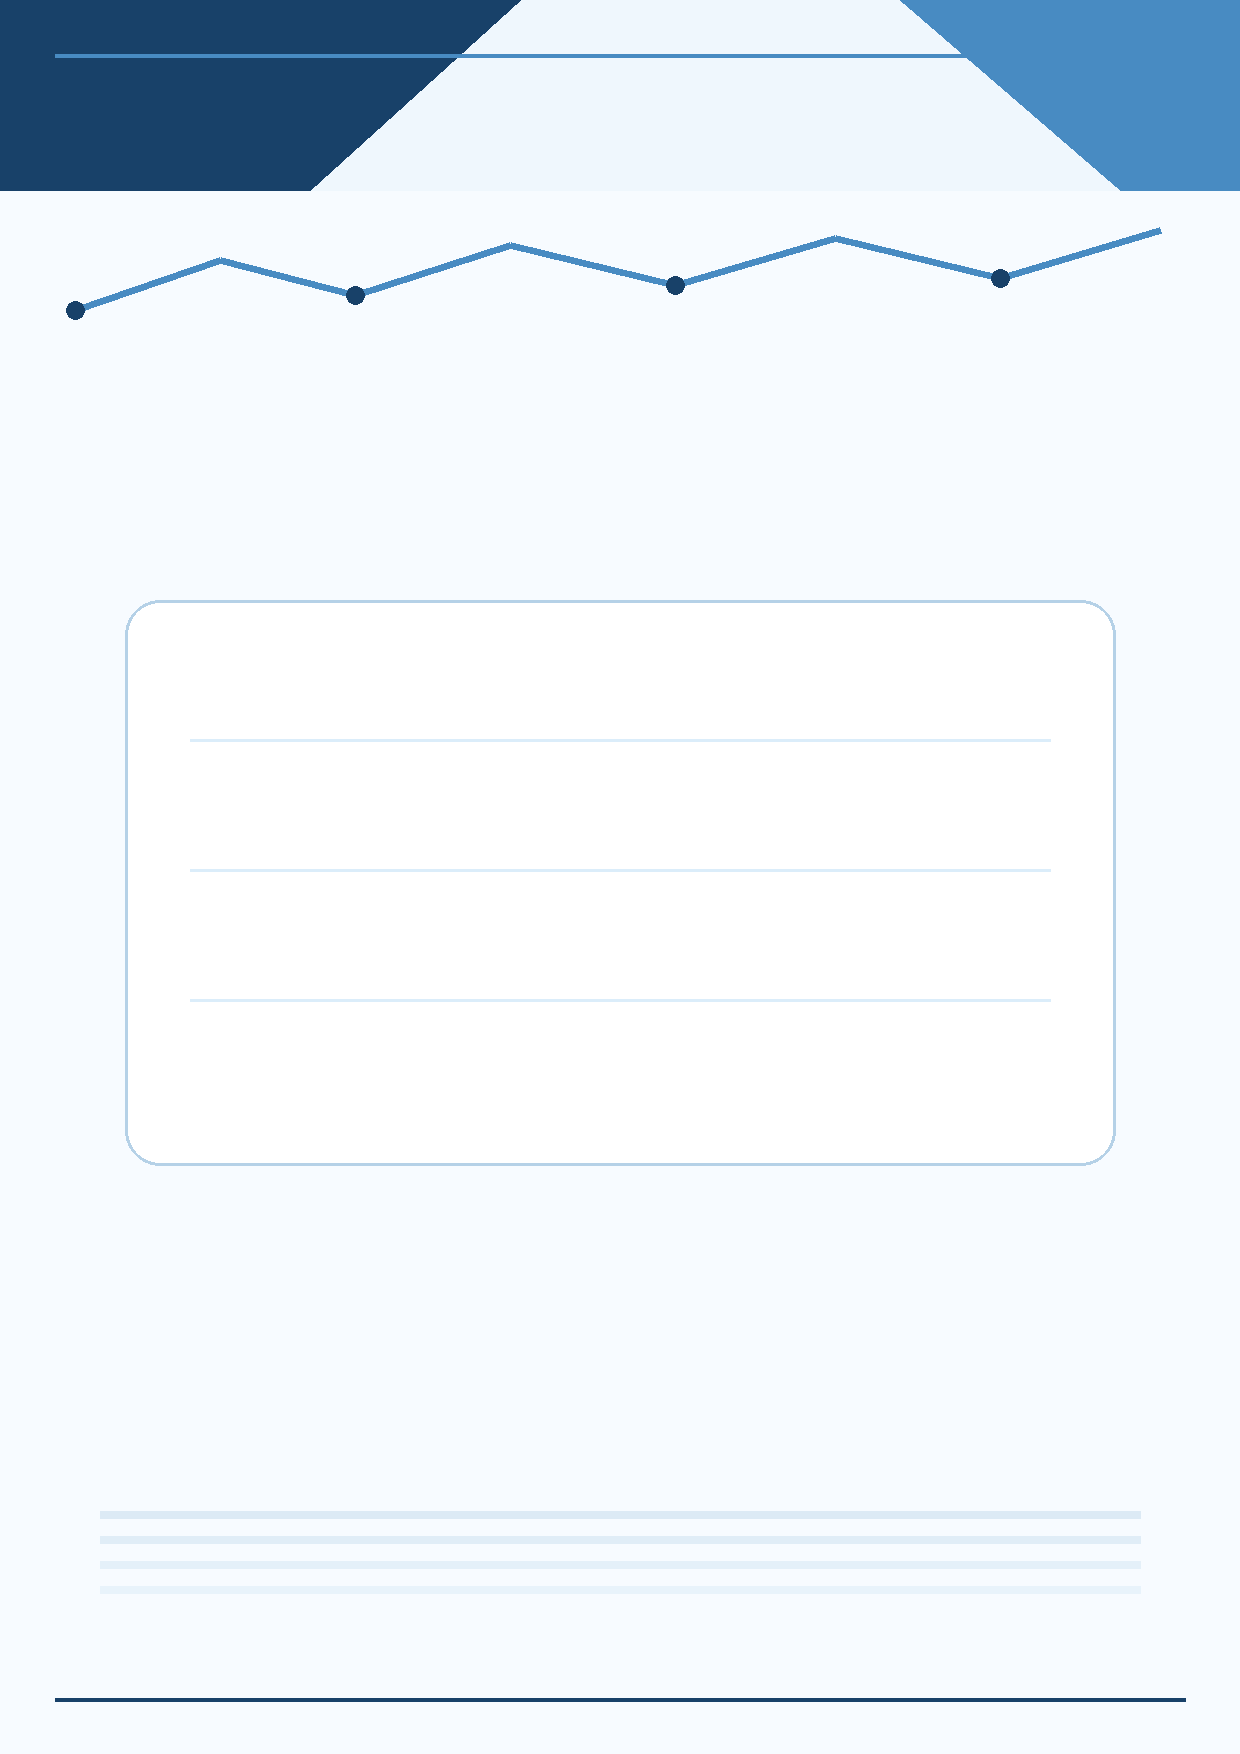
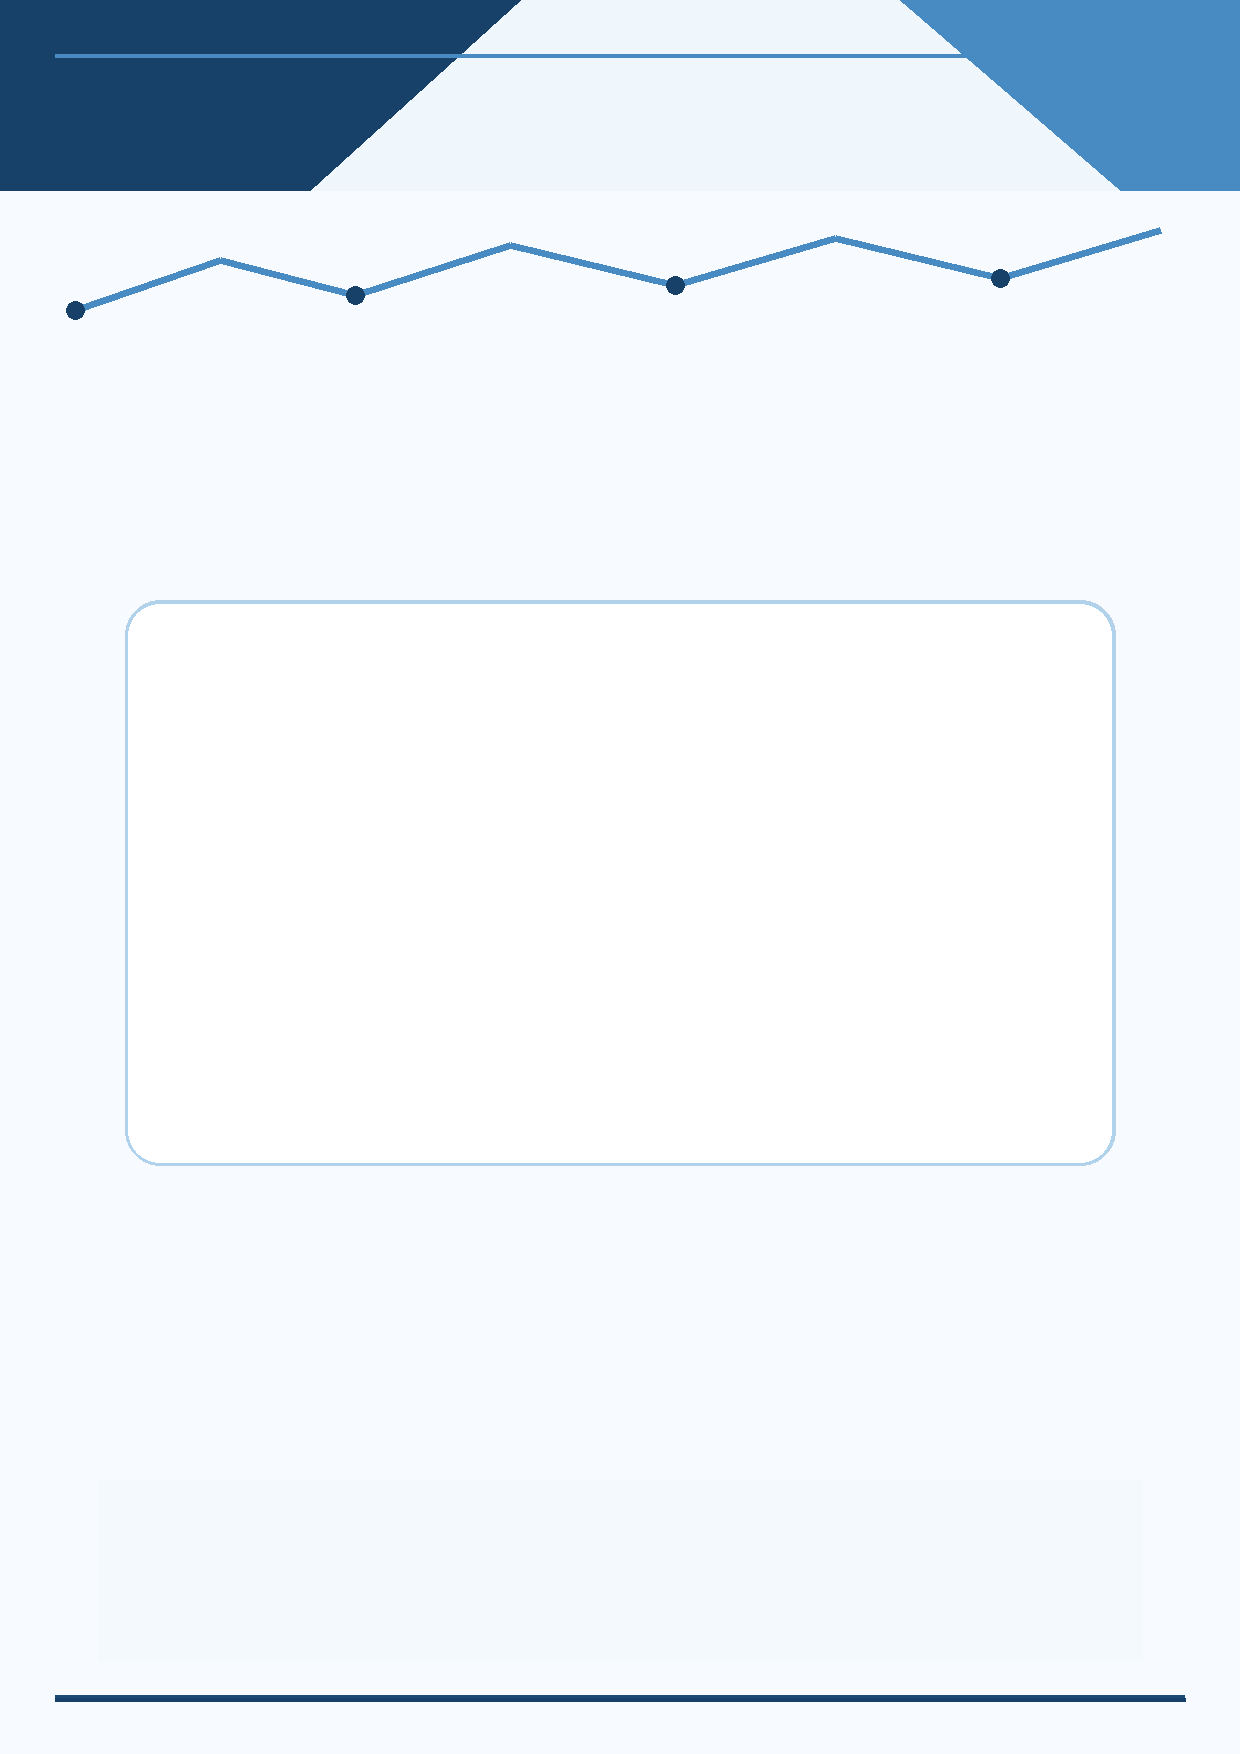
Add files via upload

diff --git a/app.js b/app.js
@@ -8,7 +8,7 @@ const LOCK_STALE_MS = 90000;
 const HEARTBEAT_MS = 20000;
 const DEFAULT_NOTICE = '開会式は、体育館で10時からとなっています。参加者は、5分前にはお集まりください。';
 const DEFAULT_CODES = { admin:'1234', A:'1111', B:'2222', C:'3333' };
-const APP_VERSION='1.0.7';
+const APP_VERSION='1.0.8';
 const TEAM_COLORS={
   1:'#FA927E',2:'#78C7FC',3:'#F8CC76',4:'#9EE6B4',5:'#C1A6F9',
   6:'#F6AAD2',7:'#88E2DB',8:'#F3B180',9:'#A5BDF3',10:'#D2E58A'
@@ -676,7 +676,7 @@ function certificatePageHtml(kind,data){
   return `<section class="cert-page"><img class="cert-bg" src="${esc(bg)}" /><div class="cert-content record-certificate"><div class="cert-title">記録証</div><div class="cert-team">${esc(data.teamName||'チーム名')}</div><div class="cert-recipient">${esc(data.name||'選手名')} <small>殿</small></div><div class="record-table"><div><span>出場区間</span><strong>${esc(data.legLabel||'第1区間')}</strong></div><div><span>区間距離</span><strong>${esc(data.distance||'未設定')}</strong></div><div><span>記録</span><strong>${esc(data.lap||'--:--:--')}</strong></div><div><span>区間順位</span><strong>${esc(data.legRank||'—')}</strong></div></div><div class="cert-body compact">あなたの「${esc(eventName)}」における記録を<br>ここに証します</div>${certificateCommonFoot(cfg)}</div></section>`;
 }
 function certificatePrintStyles(){return `
-@page{size:A4 portrait;margin:0}*{box-sizing:border-box}html,body{margin:0;padding:0;background:#e7edf3;font-family:"Yu Mincho","Hiragino Mincho ProN","Noto Serif JP",serif;color:#172b3c;-webkit-print-color-adjust:exact;print-color-adjust:exact}.toolbar{position:sticky;top:0;z-index:5;padding:10px;background:#102b47;color:#fff;text-align:center;font-family:sans-serif}.toolbar button{border:0;border-radius:8px;padding:9px 18px;font-weight:800;cursor:pointer}.cert-page{width:210mm;height:297mm;position:relative;margin:12px auto;background:#fff;overflow:hidden;page-break-after:always;box-shadow:0 8px 28px #0002}.cert-page:last-child{page-break-after:auto}.cert-bg{position:absolute;inset:0;width:210mm;height:297mm;object-fit:fill}.cert-content{position:absolute;inset:0;text-align:center}.cert-title{position:absolute;top:40mm;left:24mm;right:24mm;height:17mm;display:flex;align-items:center;justify-content:center;font-size:13.5mm;font-weight:700;line-height:1;letter-spacing:.13em;color:#1e3550}.cert-subtitle{position:absolute;top:67mm;left:25mm;right:25mm;font-size:8mm;font-weight:700;color:#9b752d}.cert-recipient{position:absolute;top:92mm;left:35mm;right:35mm;min-height:16mm;display:flex;align-items:center;justify-content:center;font-size:9.2mm;font-weight:700;border-bottom:.3mm solid #788795;padding-bottom:1.8mm}.cert-recipient small{font-size:4.5mm;font-weight:500;margin-left:2mm}.cert-detail{position:absolute;top:113mm;left:28mm;right:28mm;font-size:4.6mm}.cert-record{position:absolute;top:125mm;left:28mm;right:28mm;font-size:6.8mm;font-weight:700;color:#183d63}.cert-body{position:absolute;top:151mm;left:30mm;right:30mm;font-size:5.8mm;line-height:2.0}.team-award .cert-body,.individual-award .cert-body{font-size:6.7mm;line-height:2.1}.cert-body.compact{top:205mm;font-size:5.9mm}.cert-date{position:absolute;top:232mm;left:30mm;right:30mm;font-size:4.2mm}.cert-issuer{position:absolute;top:243mm;left:42mm;right:28mm;min-height:22mm;font-size:4.6mm;display:flex;align-items:center;justify-content:flex-end;gap:4mm}.cert-issuer span{font-size:4mm}.cert-issuer strong{font-size:4.8mm}.cert-seal-image{width:18mm;height:18mm;object-fit:contain}.cert-seal-text{--seal-cols:2;--seal-rows:2;position:relative;width:18mm;height:18mm;border:.9mm solid #a91f25;color:#a91f25;display:grid;place-items:center;font-family:"Yu Mincho","Hiragino Mincho ProN",serif;font-size:4.1mm;font-weight:900;line-height:1;background:rgba(255,255,255,.18);box-shadow:inset 0 0 0 .4mm #a91f25;padding:1.6mm}.cert-seal-text:after{content:"";position:absolute;inset:.75mm;border:.25mm solid rgba(169,31,37,.8);pointer-events:none}.seal-glyph-grid{width:100%;height:100%;display:grid;grid-template-columns:repeat(var(--seal-cols),1fr);grid-template-rows:repeat(var(--seal-rows),1fr);align-items:center;justify-items:center}.seal-glyph-grid i{font-style:normal;line-height:1}.cert-team{position:absolute;top:74mm;left:28mm;right:28mm;font-size:5.2mm}.record-certificate{font-family:"Yu Gothic","Hiragino Sans",sans-serif;color:#163d62}.record-certificate .cert-title{top:46mm;height:17mm;font-size:13mm;letter-spacing:.11em;color:#173f65}.record-certificate .cert-team{top:73mm;font-size:5.4mm;font-weight:800;color:#3d6f99}.record-certificate .cert-recipient{top:88mm;left:34mm;right:34mm;font-family:"Yu Mincho","Hiragino Mincho ProN",serif;color:#152f49;font-size:8.8mm;border-bottom:none;padding-bottom:0}.record-table{position:absolute;top:118mm;left:34mm;right:34mm;font-size:4.5mm;text-align:left;border:.35mm solid #b9cfdf;border-radius:4mm;overflow:hidden;background:rgba(255,255,255,.72)}.record-table>div{display:grid;grid-template-columns:1fr 1.35fr;gap:7mm;padding:3.1mm 4mm;min-height:15mm;align-items:center}.record-table>div+div{border-top:.35mm solid #b9cfdf}.record-table strong{text-align:right;font-size:5mm;color:#113e68}.record-certificate .cert-body.compact{top:207mm}.record-certificate .cert-date{top:236mm}.record-certificate .cert-issuer{top:247mm}.funrun-kicker{position:absolute;top:25mm;left:38mm;right:38mm;font-family:Arial,sans-serif;font-size:3mm;font-weight:700;letter-spacing:.24em;color:#668f79}.funrun-award{font-family:"Yu Gothic","Hiragino Sans",sans-serif;color:#38584a}.funrun-award .cert-title{top:37mm;height:17mm;font-family:"Yu Mincho","Hiragino Mincho ProN",serif;font-size:13.5mm;color:#3e765e;letter-spacing:.04em}.funrun-award .cert-team{top:70mm;font-size:4.6mm;color:#7c6b3d;letter-spacing:.12em;font-weight:700}.funrun-award .cert-recipient{top:94mm;left:38mm;right:38mm;font-family:"Yu Mincho","Hiragino Mincho ProN",serif;font-size:9.4mm;border-bottom:.3mm solid #9fb5a7;color:#284f3d}.funrun-award .cert-body{top:133mm;left:32mm;right:32mm;font-size:6.2mm;line-height:2.05}.funrun-award .cert-date{top:232mm}.funrun-award .cert-issuer{top:244mm}@media print{body{background:#fff}.toolbar{display:none}.cert-page{margin:0;box-shadow:none}}`}
+@page{size:A4 portrait;margin:0}*{box-sizing:border-box}html,body{margin:0;padding:0;background:#e7edf3;font-family:"Yu Mincho","Hiragino Mincho ProN","Noto Serif JP",serif;color:#172b3c;-webkit-print-color-adjust:exact;print-color-adjust:exact}.toolbar{position:sticky;top:0;z-index:5;padding:10px;background:#102b47;color:#fff;text-align:center;font-family:sans-serif}.toolbar button{border:0;border-radius:8px;padding:9px 18px;font-weight:800;cursor:pointer}.cert-page{width:210mm;height:297mm;position:relative;margin:12px auto;background:#fff;overflow:hidden;page-break-after:always;box-shadow:0 8px 28px #0002}.cert-page:last-child{page-break-after:auto}.cert-bg{position:absolute;inset:0;width:210mm;height:297mm;object-fit:fill}.cert-content{position:absolute;inset:0;text-align:center}.cert-title{position:absolute;top:40mm;left:24mm;right:24mm;height:17mm;display:flex;align-items:center;justify-content:center;font-size:13.5mm;font-weight:700;line-height:1;letter-spacing:.13em;color:#1e3550}.cert-subtitle{position:absolute;top:67mm;left:25mm;right:25mm;font-size:8mm;font-weight:700;color:#9b752d}.cert-recipient{position:absolute;top:92mm;left:35mm;right:35mm;min-height:16mm;display:flex;align-items:center;justify-content:center;font-size:9.2mm;font-weight:700;border-bottom:.3mm solid #788795;padding-bottom:1.8mm}.cert-recipient small{font-size:4.5mm;font-weight:500;margin-left:2mm}.cert-detail{position:absolute;top:113mm;left:28mm;right:28mm;font-size:4.6mm}.cert-record{position:absolute;top:125mm;left:28mm;right:28mm;font-size:6.8mm;font-weight:700;color:#183d63}.cert-body{position:absolute;top:151mm;left:30mm;right:30mm;font-size:5.8mm;line-height:2.0}.team-award .cert-body,.individual-award .cert-body{font-size:6.7mm;line-height:2.1}.cert-body.compact{top:205mm;font-size:5.9mm}.cert-date{position:absolute;top:232mm;left:30mm;right:30mm;font-size:4.2mm}.cert-issuer{position:absolute;top:243mm;left:42mm;right:28mm;min-height:22mm;font-size:4.6mm;display:flex;align-items:center;justify-content:flex-end;gap:4mm}.cert-issuer span{font-size:4mm}.cert-issuer strong{font-size:4.8mm}.cert-seal-image{width:18mm;height:18mm;object-fit:contain}.cert-seal-text{--seal-cols:2;--seal-rows:2;position:relative;width:18mm;height:18mm;border:.9mm solid #a91f25;color:#a91f25;display:grid;place-items:center;font-family:"Yu Mincho","Hiragino Mincho ProN",serif;font-size:4.1mm;font-weight:900;line-height:1;background:rgba(255,255,255,.18);box-shadow:inset 0 0 0 .4mm #a91f25;padding:1.6mm}.cert-seal-text:after{content:"";position:absolute;inset:.75mm;border:.25mm solid rgba(169,31,37,.8);pointer-events:none}.seal-glyph-grid{width:100%;height:100%;display:grid;grid-template-columns:repeat(var(--seal-cols),1fr);grid-template-rows:repeat(var(--seal-rows),1fr);align-items:center;justify-items:center}.seal-glyph-grid i{font-style:normal;line-height:1}.cert-team{position:absolute;top:74mm;left:28mm;right:28mm;font-size:5.2mm}.record-certificate{font-family:"Yu Gothic","Hiragino Sans",sans-serif;color:#163d62}.record-certificate .cert-title{top:46mm;height:17mm;font-size:13mm;letter-spacing:.11em;color:#173f65}.record-certificate .cert-team{top:73mm;font-size:5.4mm;font-weight:800;color:#3d6f99}.record-certificate .cert-recipient{top:88mm;left:34mm;right:34mm;font-family:"Yu Mincho","Hiragino Mincho ProN",serif;color:#152f49;font-size:8.8mm;border-bottom:none;padding-bottom:0}.record-table{position:absolute;top:118mm;left:34mm;right:34mm;font-size:4.5mm;text-align:left;border:.32mm solid #a9cbea;border-radius:4mm;overflow:hidden;background:rgba(255,255,255,.82)}.record-table>div{display:grid;grid-template-columns:1fr 1.35fr;gap:7mm;padding:3.1mm 4mm;min-height:15mm;align-items:center}.record-table>div+div{border-top:.22mm solid #c7dceb}.record-table strong{text-align:right;font-size:5mm;color:#113e68}.record-certificate .cert-body.compact{top:207mm}.record-certificate .cert-date{top:236mm}.record-certificate .cert-issuer{top:247mm}.funrun-kicker{position:absolute;top:25mm;left:38mm;right:38mm;font-family:Arial,sans-serif;font-size:3mm;font-weight:700;letter-spacing:.24em;color:#668f79}.funrun-award{font-family:"Yu Gothic","Hiragino Sans",sans-serif;color:#38584a}.funrun-award .cert-title{top:37mm;height:17mm;font-family:"Yu Mincho","Hiragino Mincho ProN",serif;font-size:13.5mm;color:#3e765e;letter-spacing:.04em}.funrun-award .cert-team{top:70mm;font-size:4.6mm;color:#7c6b3d;letter-spacing:.12em;font-weight:700}.funrun-award .cert-recipient{top:94mm;left:38mm;right:38mm;font-family:"Yu Mincho","Hiragino Mincho ProN",serif;font-size:9.4mm;border-bottom:.3mm solid #9fb5a7;color:#284f3d}.funrun-award .cert-body{top:149mm;left:32mm;right:32mm;font-size:6.2mm;line-height:2.05}.funrun-award .cert-date{top:230mm}.funrun-award .cert-issuer{top:244mm}@media print{body{background:#fff}.toolbar{display:none}.cert-page{margin:0;box-shadow:none}}`}
 function openCertificatePages(pages,title='証書プレビュー'){
   if(!pages.length){toast('出力できるデータがありません');return;}const w=window.open('','_blank');if(!w){toast('ポップアップを許可してください');return;}w.document.open();w.document.write(`<!doctype html><html lang="ja"><head><meta charset="utf-8"><title>${esc(title)}</title><style>${certificatePrintStyles()}</style></head><body><div class="toolbar"><button onclick="window.print()">PDF・印刷</button>　${esc(title)}（${pages.length}枚）</div>${pages.join('')}</body></html>`);w.document.close();
 }

diff --git a/index.html b/index.html
@@ -7,7 +7,7 @@
   <title>駅伝大会運営システム | Ekiden</title>
   <link rel="manifest" href="manifest.webmanifest" />
   <link rel="icon" href="assets/icon-192.png" type="image/png" />
-  <link rel="stylesheet" href="styles.css?v=1.0.7" />
+  <link rel="stylesheet" href="styles.css?v=1.0.8" />
   <style>
     /* v0.15.1: 区間距離は設定カード内で3列を保証。外部CSSキャッシュ時の保険も兼ねる */
     .leg-distance-grid{grid-template-columns:repeat(3,minmax(0,1fr))!important;}
@@ -261,7 +261,7 @@
           </article>
 
           <article class="panel wide event-manager-panel admin-tab-panel" data-admin-category="settings">
-            <div class="panel-heading"><h2>年度別大会管理</h2><span class="mini-badge online">v1.0.7</span></div>
+            <div class="panel-heading"><h2>年度別大会管理</h2><span class="mini-badge online">v1.0.8</span></div>
             <p class="hint">現在大会は1つだけ運用します。新しい大会を作成すると、現在大会は過去大会として自動保存されます。申込者・チーム・計測記録は新大会へ引き継ぎません。</p>
             <div id="currentEventSummary" class="current-event-summary"></div>
             <div class="new-event-box">
@@ -345,7 +345,7 @@
           </article>
 
           <article class="panel wide certificate-admin-panel admin-tab-panel" data-admin-category="results">
-            <div class="panel-heading"><h2>表彰状・記録証テンプレート</h2><span class="mini-badge online">v1.0.7</span></div>
+            <div class="panel-heading"><h2>表彰状・記録証テンプレート</h2><span class="mini-badge online">v1.0.8</span></div>
             <p class="hint">標準テンプレートをそのまま使用できます。必要に応じてPNGをダウンロードし、Canva・PowerPoint等で編集してから背景画像としてアップロードしてください。完成した証書画像は保存せず、出力時に文字を重ねてPDF化します。</p>
             <div class="certificate-meta-grid">
               <label>主催名<input id="certificateOrganizerName" placeholder="例：大豊学園PTA" /></label>
@@ -487,7 +487,7 @@
           </article>
 
           <article class="panel wide backup-panel admin-tab-panel" data-admin-category="data">
-            <div class="panel-heading"><h2>バックアップ・データ出力</h2><span class="mini-badge">v1.0.7</span></div>
+            <div class="panel-heading"><h2>バックアップ・データ出力</h2><span class="mini-badge">v1.0.8</span></div>
             <p class="hint">JSONバックアップには申込者の個人情報とチーム用アクセスコードが含まれます。学校・大会事務局の安全な場所に保管してください。管理者・計測係のアクセスコードはバックアップに含めません。</p>
             <div class="backup-actions">
               <button class="primary-btn" id="exportBackupBtn" type="button">現在大会をJSONバックアップ</button>
@@ -583,6 +583,6 @@
   <script src="https://cdn.jsdelivr.net/npm/@supabase/supabase-js@2"></script>
   <script src="supabase-config.js"></script>
   <script src="https://cdnjs.cloudflare.com/ajax/libs/qrcodejs/1.0.0/qrcode.min.js"></script>
-  <script type="module" src="app.js?v=1.0.7"></script>
+  <script type="module" src="app.js?v=1.0.8"></script>
 </body>
 </html>

diff --git a/V1_RELEASE_NOTES.md b/V1_RELEASE_NOTES.md
@@ -22,7 +22,7 @@ v0.15.1までのSQLパッチを適用済みの環境では、v1.0用の追加SQL
 `V1_TEST_CHECKLIST.md` に沿って、A/B/Cの複数端末計測、同時通過、通信切断・再接続、チーム参考計測の採用・取消まで確認してください。
 
 
-## v1.0.7
+## v1.0.8
 - 表彰状・記録証の位置ずれを調整
 - 個人表彰を「本人の最速1本＋全賞で1人1回」に変更
 - ファンラン参加証をひらがな中心に変更
@@ -30,7 +30,7 @@ v0.15.1までのSQLパッチを適用済みの環境では、v1.0用の追加SQL
 - チーター／カンガルー／ネズミ／パンダ／クマ／ペンギン／イルカ／シマウマの8種類
 - A4縦・8枚配置の八角形メダル印刷を追加
 
-## v1.0.7
+## v1.0.8
 - 表彰状・個人表彰状・記録証・ファンラン参加証の印刷レイアウトをA4実寸mm基準に再調整
 - 記録証の記録表と氏名欄の重なりを解消
 - 表彰状タイトル・受賞名・氏名・記録・日付・発行者・印の位置を固定化
@@ -40,7 +40,7 @@ v0.15.1までのSQLパッチを適用済みの環境では、v1.0用の追加SQL
 - 大会名・開催日は小さな差替え領域だけを使い、八角形デザインを崩さないよう修正
 
 
-## v1.0.7
+## v1.0.8
 - 管理画面を7カテゴリの上部タブへ整理
 - PC/スマホともにカテゴリ切替対応
 - 最後に開いていた管理カテゴリを端末内に記憶
